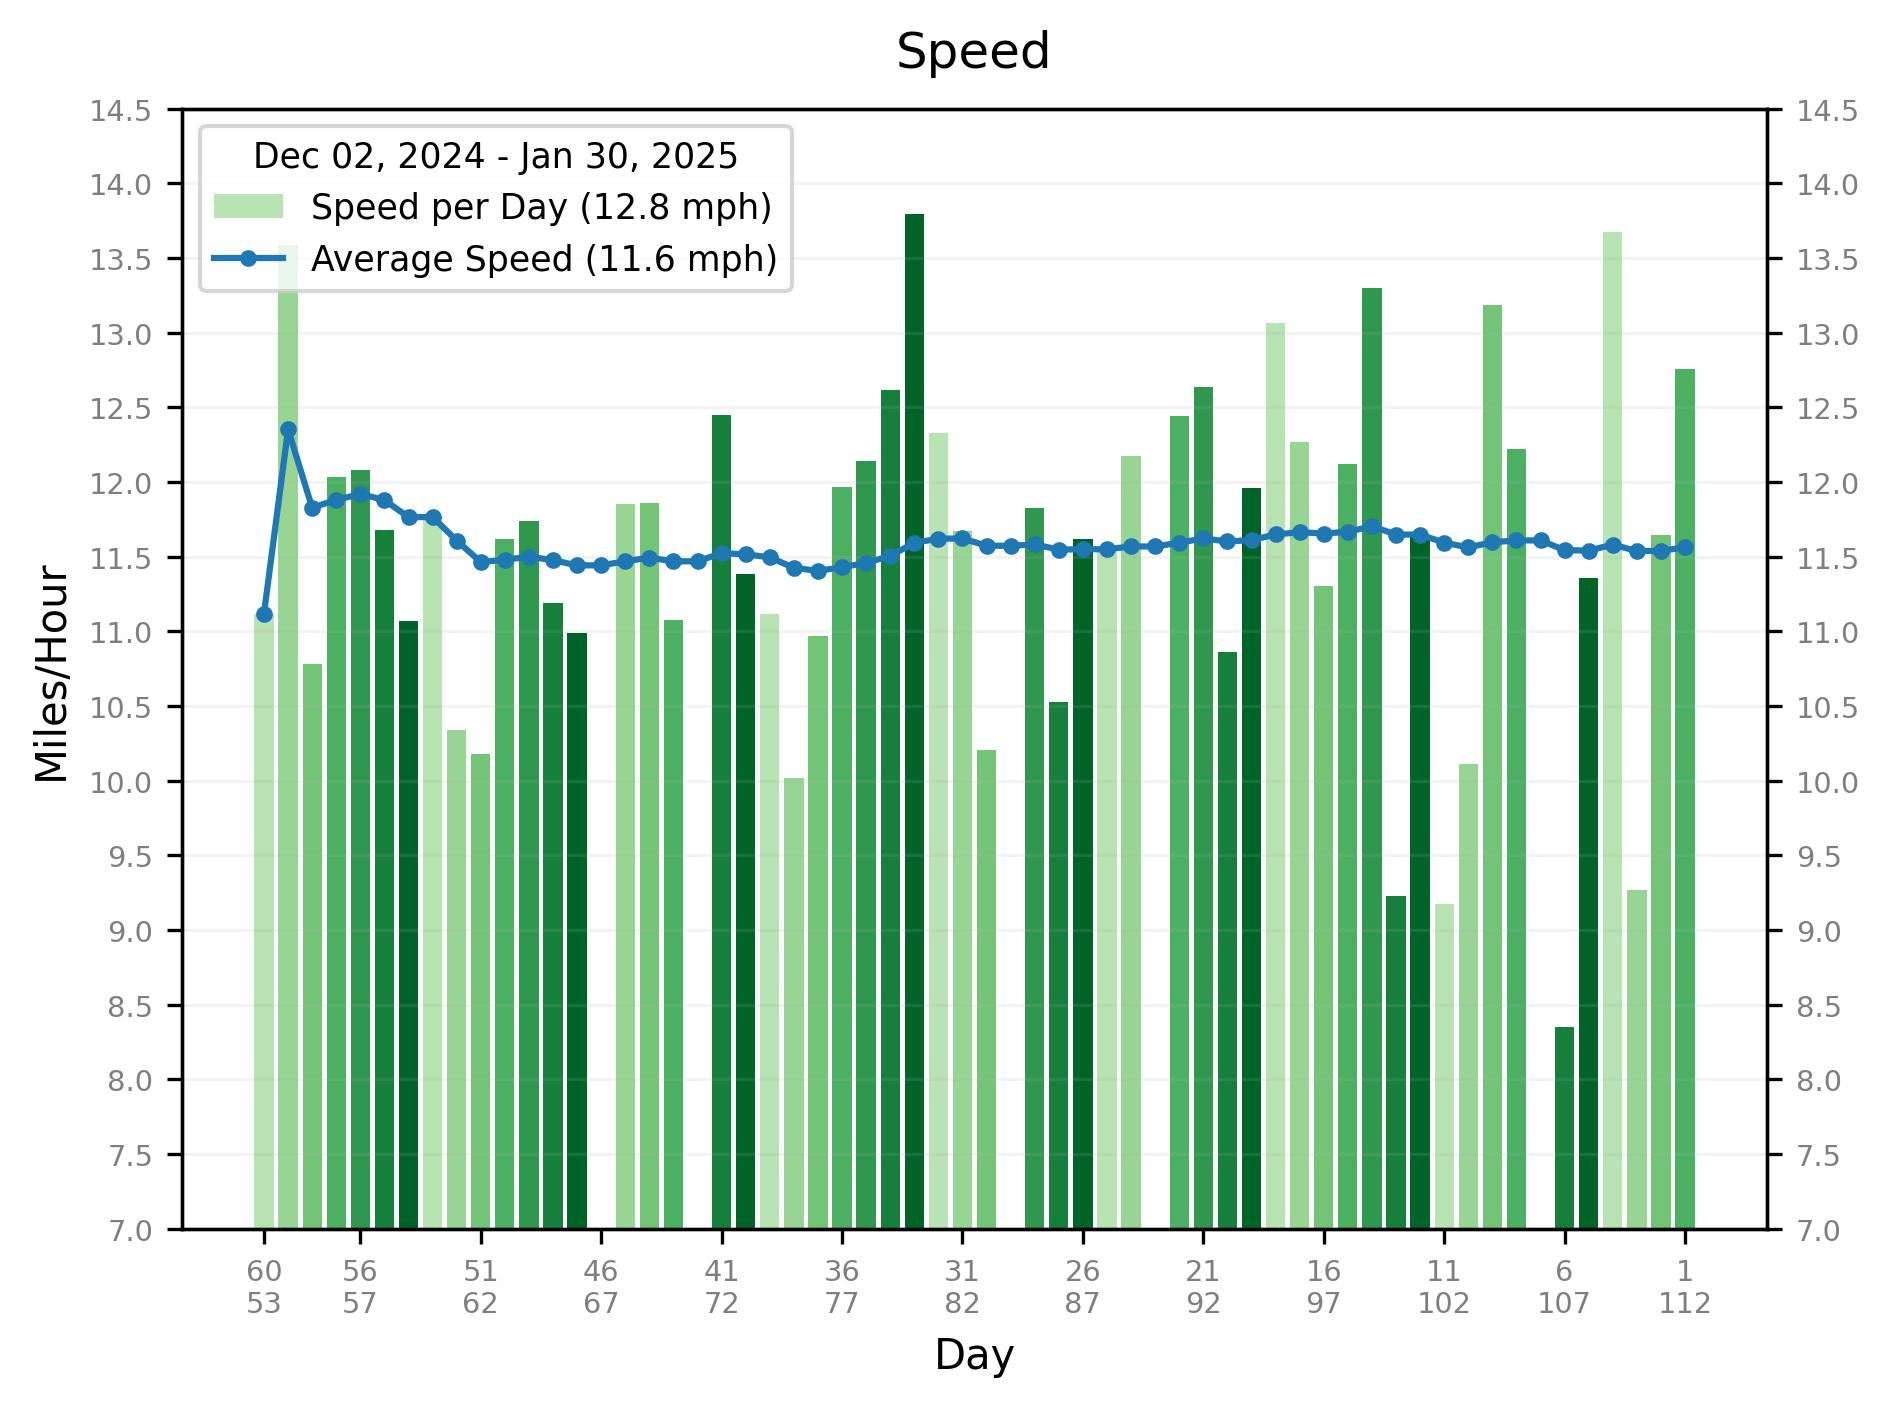
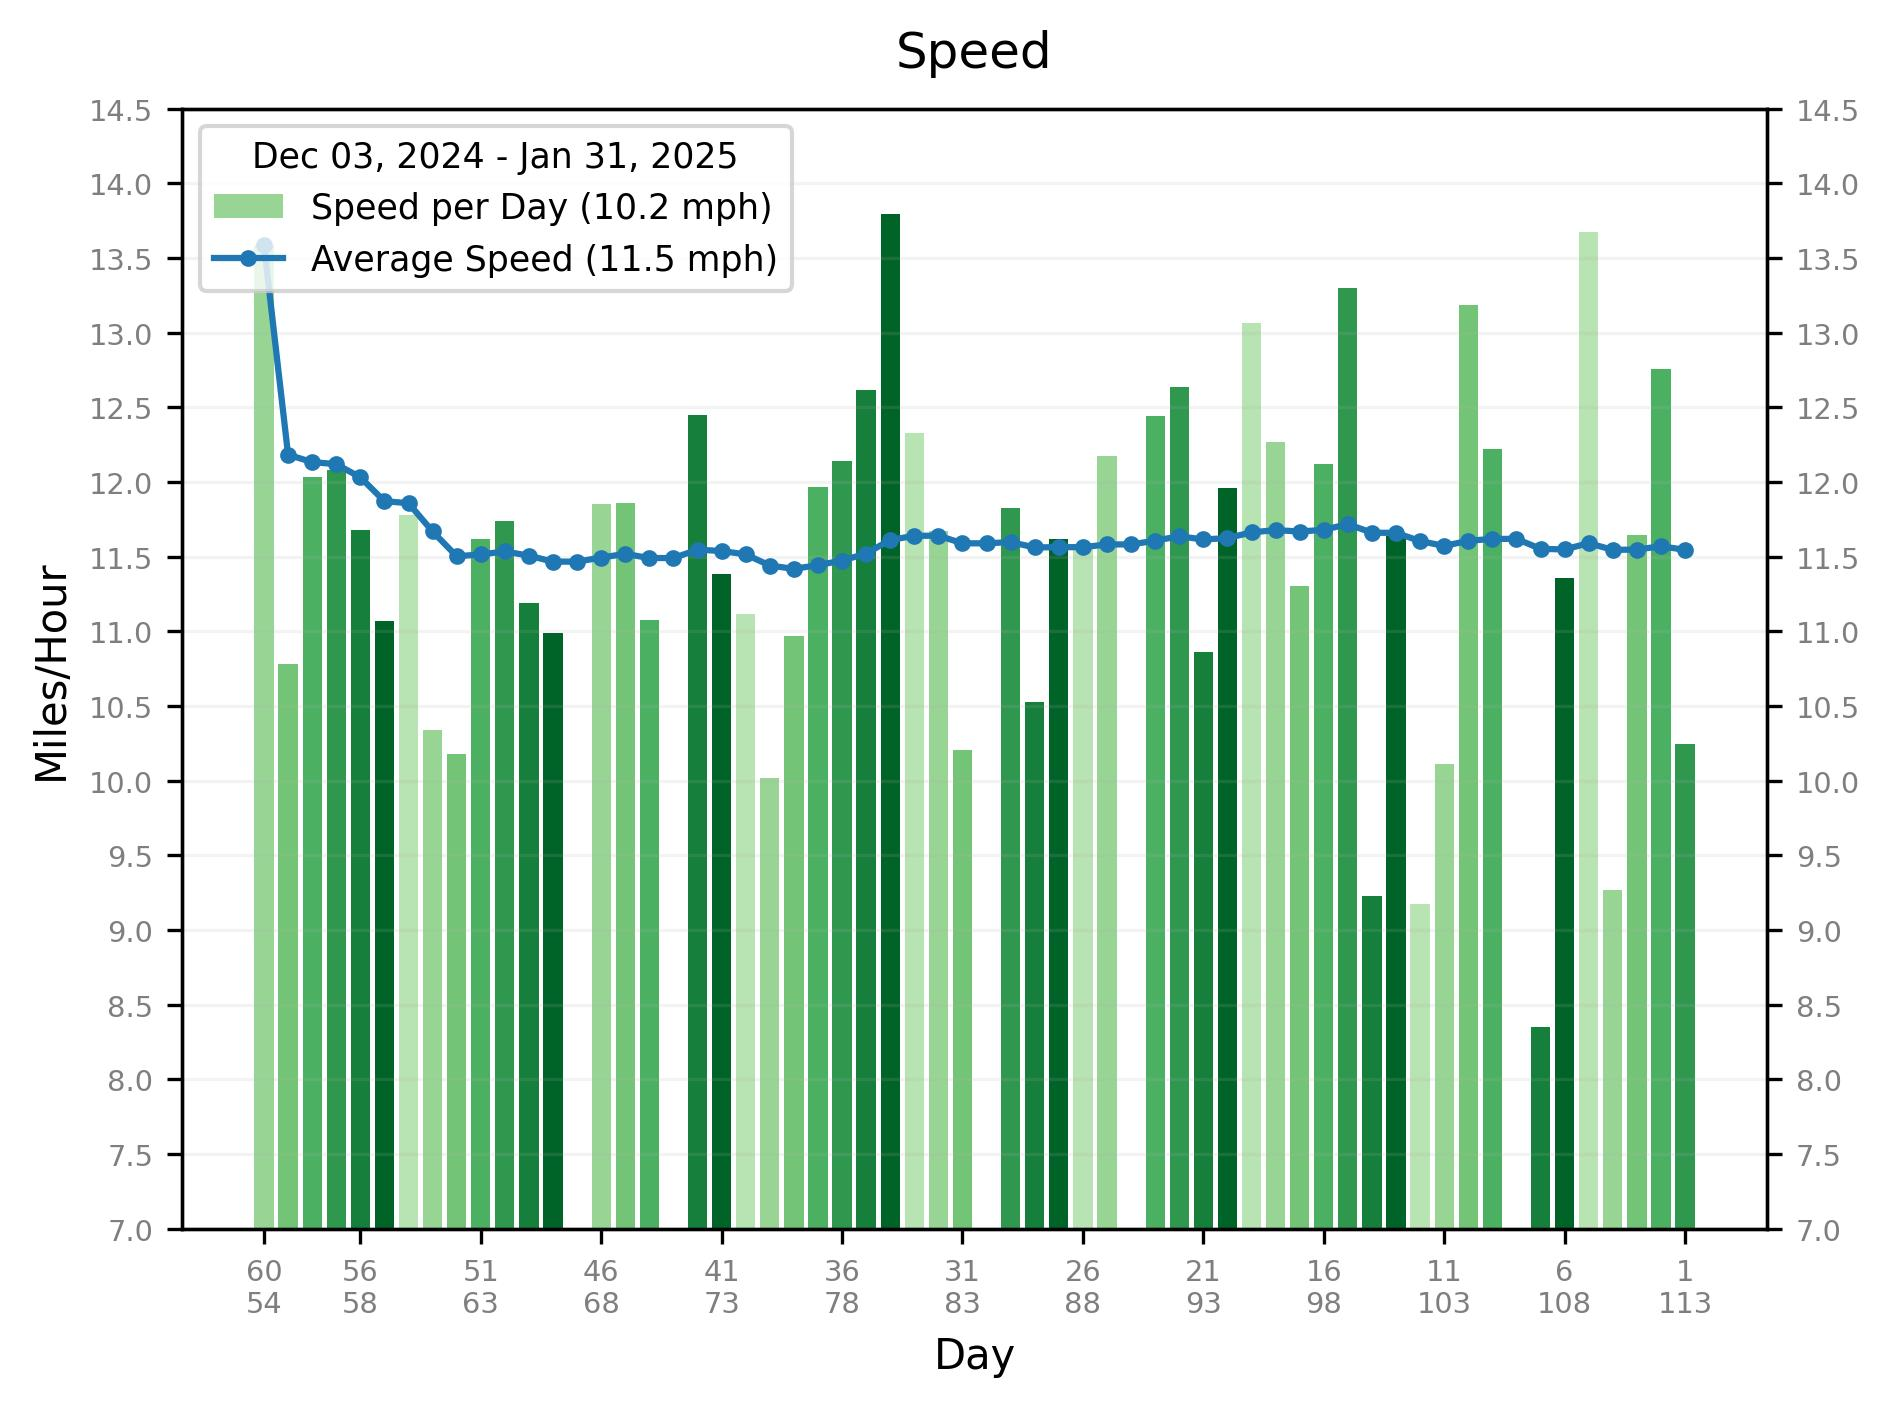
publish updates

diff --git a/docs/summary/daily/last60.html b/docs/summary/daily/last60.html
@@ -1,7 +1,7 @@
 <pre>
 Period: Last 60 Days
 <br>
-Date range: 2024-12-02 to 2025-01-30
+Date range: 2024-12-03 to 2025-01-31
 <br>
 <br>
 days  total  biked  tracked  skipped  ride rate
@@ -11,23 +11,23 @@ days  total  biked  tracked  skipped  ride rate
 <br>
 distance (miles)  min   max   avg   total
                   ----  ----  ----  -------
-                   7.5  31.4  17.3    966.0
+                   7.5  31.4  17.2    960.5
 <br>
 <br>
 speed (mph)  min   max   avg
              ----  ----  ----
-              8.4  13.8  11.6
+              8.4  13.8  11.5
 <br>
 top speed (mph)  min   max   avg
                  ----  ----  ----
-                 22.9  42.9  31.9
+                 22.9  42.9  32.0
 <br>
 <br>
 elevation gain (ft)  min   max   avg   total    total miles
                      ----  ----  ----  -------  -----------
-                      287  2212   944    51958          9.8
+                      287  2212   954    52482          9.9
 <br>
 elevation range (ft)  low:  min   max   avg   high:  min   max   avg
                             ----  ----  ----         ----  ----  ----
-                             17   329   155           404  1602   641
+                             17   329   158           404  1602   646
 </pre>

diff --git a/docs/summary/daily/last30.html b/docs/summary/daily/last30.html
@@ -1,7 +1,7 @@
 <pre>
 Period: Last 30 Days
 <br>
-Date range: 2025-01-01 to 2025-01-30
+Date range: 2025-01-02 to 2025-01-31
 <br>
 <br>
 days  total  biked  tracked  skipped  ride rate
@@ -11,7 +11,7 @@ days  total  biked  tracked  skipped  ride rate
 <br>
 distance (miles)  min   max   avg   total
                   ----  ----  ----  -------
-                   7.5  27.4  17.1    477.6
+                   7.5  27.4  16.8    469.6
 <br>
 <br>
 speed (mph)  min   max   avg
@@ -20,14 +20,14 @@ speed (mph)  min   max   avg
 <br>
 top speed (mph)  min   max   avg
                  ----  ----  ----
-                 22.9  42.9  33.2
+                 22.9  42.9  33.6
 <br>
 <br>
 elevation gain (ft)  min   max   avg   total    total miles
                      ----  ----  ----  -------  -----------
-                      287  2212  1069    28867          5.5
+                      287  2212  1100    29714          5.6
 <br>
 elevation range (ft)  low:  min   max   avg   high:  min   max   avg
                             ----  ----  ----         ----  ----  ----
-                             17   329   164           404  1602   714
+                             17   329   172           404  1602   735
 </pre>

diff --git a/docs/summary/daily/last90.html b/docs/summary/daily/last90.html
@@ -1,17 +1,17 @@
 <pre>
 Period: Last 90 Days
 <br>
-Date range: 2024-11-02 to 2025-01-30
+Date range: 2024-11-03 to 2025-01-31
 <br>
 <br>
 days  total  biked  tracked  skipped  ride rate
       -----  -----  -------  -------  ---------
-         90     81     72        9     90.00%
+         90     81     73        9     90.00%
 <br>
 <br>
 distance (miles)  min   max   avg   total
                   ----  ----  ----  -------
-                   7.1  31.4  16.5   1332.6
+                   7.1  31.4  16.4   1332.0
 <br>
 <br>
 speed (mph)  min   max   avg
@@ -25,9 +25,9 @@ top speed (mph)  min   max   avg
 <br>
 elevation gain (ft)  min   max   avg   total    total miles
                      ----  ----  ----  -------  -----------
-                      287  2212   874    62955         11.9
+                      287  2212   882    64455         12.2
 <br>
 elevation range (ft)  low:  min   max   avg   high:  min   max   avg
                             ----  ----  ----         ----  ----  ----
-                             17   329   150           390  1602   610
+                             17   329   153           390  1602   616
 </pre>

diff --git a/docs/summary/daily/all.html b/docs/summary/daily/all.html
@@ -1,17 +1,17 @@
 <pre>
 Period: All Time
 <br>
-Date range: 2024-10-11 to 2025-01-30
+Date range: 2024-10-11 to 2025-01-31
 <br>
 <br>
 days  total  biked  tracked  skipped  ride rate
       -----  -----  -------  -------  ---------
-        112    102     72       10     91.07%
+        113    103     73       10     91.15%
 <br>
 <br>
 distance (miles)  min   max   avg   total
                   ----  ----  ----  -------
-                   6.9  31.4  15.4   1574.5
+                   6.9  31.4  15.4   1583.9
 <br>
 <br>
 speed (mph)  min   max   avg
@@ -25,9 +25,9 @@ top speed (mph)  min   max   avg
 <br>
 elevation gain (ft)  min   max   avg   total    total miles
                      ----  ----  ----  -------  -----------
-                      287  2212   874    62955         11.9
+                      287  2212   882    64455         12.2
 <br>
 elevation range (ft)  low:  min   max   avg   high:  min   max   avg
                             ----  ----  ----         ----  ----  ----
-                             17   329   150           390  1602   610
+                             17   329   153           390  1602   616
 </pre>
